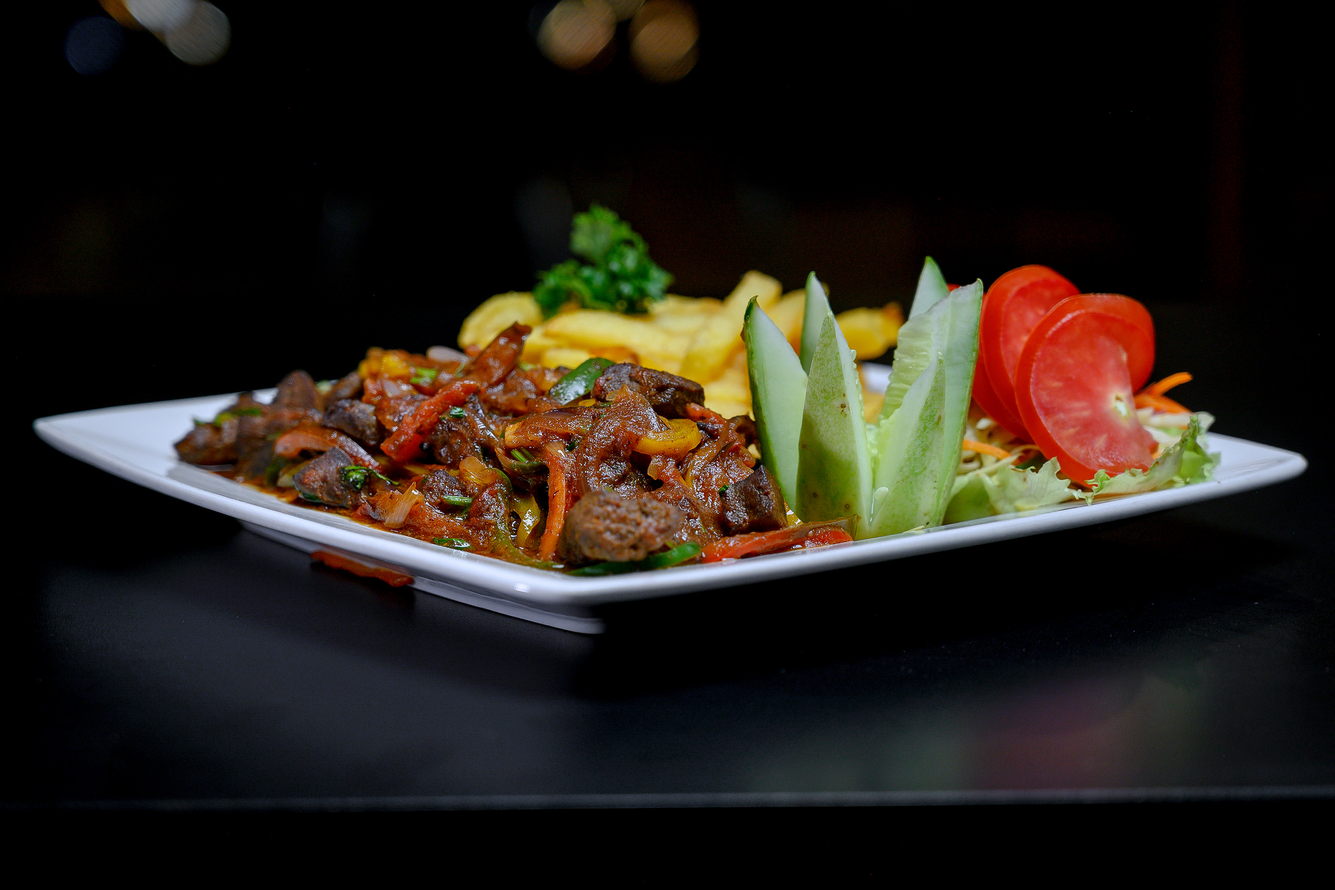
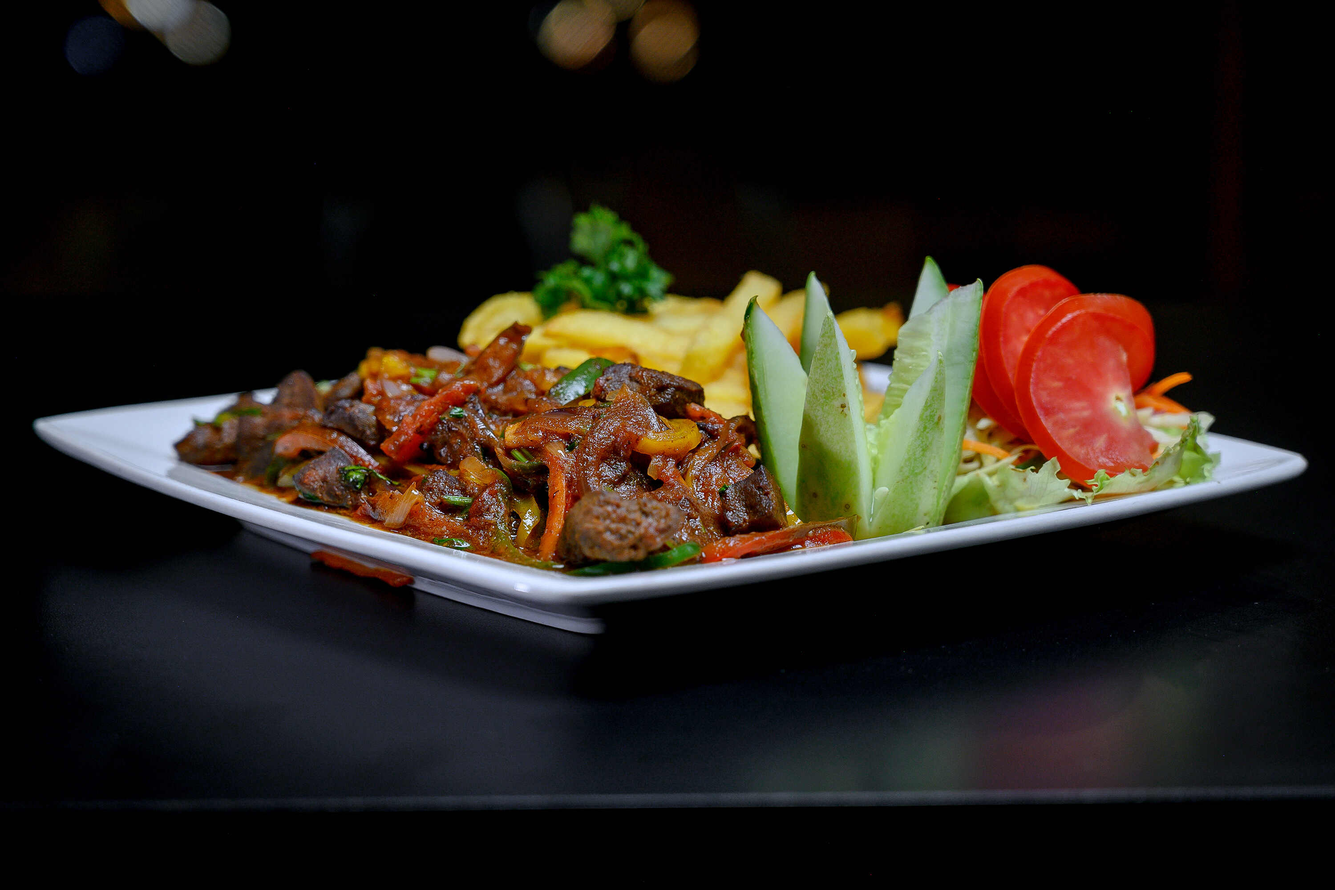
compressed images for faster loading

Changed region(s): [[0.372, 0.434, 0.558, 0.589], [0.31, 0.527, 0.403, 0.62]]

diff --git a/index.html b/index.html
@@ -38,25 +38,25 @@
             <!-- Nav Links -->
             <ul class="nav-menu">
                 <li class="nav-item">
-                    <a href="" class="nav-link underline-animation">menu</a>
+                    <a href="#menu" class="nav-link underline-animation">menu</a>
                 </li>
                 <li class="nav-item">
-                    <a href="" class="nav-link underline-animation">restaurant</a>
+                    <a href="#restaurant" class="nav-link underline-animation">restaurant</a>
                 </li>
                 <li class="nav-item">
-                    <a href="" class="nav-link underline-animation">lounge</a>
+                    <a href="#lounge" class="nav-link underline-animation">lounge</a>
                 </li>
                 <li class="nav-item">
-                    <a href="" class="nav-link underline-animation">entertainment</a>
+                    <a href="#events" class="nav-link underline-animation">entertainment</a>
                 </li>
                 <li class="nav-item">
-                    <a href="" class="nav-link underline-animation">location</a>
+                    <a href="#location" class="nav-link underline-animation">location</a>
                 </li>
                 <li class="nav-item">
-                    <a href="" class="nav-link underline-animation">about us</a>
+                    <a href="#gallery" class="nav-link underline-animation">Gallery</a>
                 </li>
                 <li class="nav-item">
-                    <a href="" class="nav-link underline-animation">contact</a>
+                    <a href="#contact" class="nav-link underline-animation">contact</a>
                 </li>
             </ul>
 
@@ -94,7 +94,7 @@
             <!--                  MENU SECTION                -->
             <!-- ============================================ -->
 
-            <section class="menu sub-section">
+            <section class="menu sub-section" id="menu">
                 <div class="section-description">
                     <h5 class="section-heading">menu</h5>
                     <h3 class="section-sub-heading">Experience culinary elegance at Morsa Restaurant and Lounge</h3> 
@@ -113,12 +113,12 @@
                     </div>
                 </div>
                 <div class="slideshow">
-                    <img src="img/menu/chicken_dishes_compressed.jpg" alt="" srcset="" loading="lazy" id="menu-img">
+                    <img src="img/menu/chicken_dishes_compressed.jpg" alt="" srcset="" id="menu-img">
                     <a href="" class="cta-button">Order Now</a>
                 </div>
             </section>
 
-            <section class="sub-section restaurant">
+            <section class="sub-section restaurant" id="restaurant">
                 <div class="container">
                     <div class="slideshow">
                         <img src="img/restaurant.jpg" alt="" srcset="" loading="lazy">
@@ -134,7 +134,7 @@
                 
             </section>
 
-            <section class="sub-section events">
+            <section class="sub-section events" id="events">
                 <div class="container">
                     <div class="section-description">
                         <h5 class="section-heading">events and promotions</h5>
@@ -151,7 +151,7 @@
                 
             </section>
 
-            <section class="sub-section lounge">
+            <section class="sub-section lounge" id="lounge">
                 <div class="container">
                     <div class="slideshow">
                         <img src="img/pool.jpg" alt="" srcset="" loading="lazy">
@@ -166,7 +166,7 @@
                 <a href="" class="cta-button">Book Now</a>
             </section>
 
-            <section class="gallery">
+            <section class="gallery" id="gallery">
                 <h5 class="section-heading">Our Gallery</h5>
                 <p>Follow us on Instagram <a href="">#morsarestaurant</a></p>
                 <img src="img/gallery/1.jpg" alt="" loading="lazy">
@@ -187,13 +187,13 @@
                 <img src="img/gallery/16.jpg" alt="" loading="lazy">
             </section>
 
-            <section class="location">
+            <section class="location" id="location">
                 <h5 class="section-heading">Our location</h5>
                 <iframe src="https://www.google.com/maps/embed?pb=!1m18!1m12!1m3!1d31918.2238167139!2d32.54596636711432!3d0.2576599379685006!2m3!1f0!2f0!3f0!3m2!1i1024!2i768!4f13.1!3m3!1m2!1s0x177dbd36f63e0cc7%3A0x816ce3fda9a13a1b!2sMorsa%20Restaurant%20%26%20Lounge!5e0!3m2!1sen!2sug!4v1686513495038!5m2!1sen!2sug" width="600" height="450" style="border:0;" allowfullscreen="" loading="lazy" referrerpolicy="no-referrer-when-downgrade"></iframe>
             </section>
 
             
-            <section class="sub-section customer-reviews">
+            <section class="sub-section customer-reviews" id="reviews">
                 <div class="section-description">
                     <h5 class="section-heading">Client Reviews</h5>
                     <p>This is what our clients have to say</p>
@@ -207,7 +207,7 @@
                             <i class="fas fa-star"></i>
                             <i class="fas fa-star"></i>
                             <i class="fas fa-star"></i>
-                            <i class="far fa-star"></i>
+                            <i class="fas fa-star"></i>
                         </div>
                         </div>
                         <p class="comment">
@@ -223,7 +223,7 @@
                             <i class="fas fa-star"></i>
                             <i class="fas fa-star"></i>
                             <i class="fas fa-star"></i>
-                            <i class="far fa-star"></i>
+                            <i class="fas fa-star"></i>
                         </div>
                         </div>
                         <p class="comment">
@@ -238,7 +238,7 @@
                             <i class="fas fa-star"></i>
                             <i class="fas fa-star"></i>
                             <i class="fas fa-star"></i>
-                            <i class="far fa-star"></i>
+                            <i class="fas fa-star"></i>
                         </div>
                         </div>
                         <p class="comment">
@@ -253,7 +253,7 @@
                             <i class="fas fa-star"></i>
                             <i class="fas fa-star"></i>
                             <i class="fas fa-star"></i>
-                            <i class="far fa-star"></i>
+                            <i class="fas fa-star"></i>
                         </div>
                         </div>
                         <p class="comment">
@@ -265,25 +265,41 @@
         </main>
     </div>
 
-    <footer>
-        <div class="logo-links">
-            <img src="img/logo.svg" alt="" class="heart-beat-animation nav-branding">
+    <footer id="contact">
+        <div class="container">
+            <div class="contact">
+                <div class="logo-links">
+                    <img src="img/logo.svg" alt="" class="heart-beat-animation nav-branding">
+                </div>
+                <div class="social-media">
+                    <img src="img/social_media/facebook.png" alt="">
+                    <img src="img//social_media/instagram.png" alt="">
+                    <img src="img/social_media/tiktok.png" alt="">
+                </div>
+                <p><a href=""><i class="fas fa-map-marker"></i>  Freedom City</a></p>
+                <p><a href="https://wa.me/256707500126"><i class="fas fa-phone"></i>  +256 707500126</a></p>
+                <p><a href=""><i class="fas fa-envelope"></i>  info@morsarestaurant.com</a></p>
+            </div>
+            <div class="restaurant-working-hours">
+                <h5 class="section-heading">Restaurant working Hours</h5>
+                <p>monday to friday 7am - 6pm</p>
+                <p>saturday         7am - 9pm</p>
+                <p>sunday           7am - 9pm</p>
+            </div>
+            <div class="bar-working-hours">
+                <h5 class="section-heading">Bar working Hours</h5>
+                <p>monday to friday 5pm - 3am</p>
+                <p>saturday         5pm - 1am</p>
+                <p>sunday           5pm - 1am</p>
+            </div>
         </div>
-        <div class="social-media">
-            <img src="img/social_media/facebook.png" alt="">
-            <img src="img//social_media/instagram.png" alt="">
-            <img src="img/social_media/tiktok.png" alt="">
-        </div>
-        <p><a href=""><i class="fas fa-map-marker"></i>  Freedom City</a></p>
-        <p><a href=""><i class="fas fa-phone"></i>  +256 707500126</a></p>
-        <p><a href=""><i class="fas fa-envelope"></i>  info@morsarestaurant.com</a></p>
         <p class="copyright-msg">© 2023 MORSA RESTAURANT & LOUNGE</p>
     </footer>
 
     
     <script src="js/toggle_nav.js"></script>
     <script src="js/change_menu_image.js"></script>
+    <script src="js/scroll_to_section.js"></script>
 </body>
-
 
 </html>

diff --git a/css/subsections.css b/css/subsections.css
@@ -61,6 +61,7 @@ main{
     display: grid;
     grid-template-columns: 1fr 1fr 1fr;
     justify-content: space-between;
+    padding: 0 20px;
 }
 
 .menu-btn{
@@ -87,6 +88,12 @@ main{
     font-weight: bold;
 }
 
+.menu-btn:focus {
+    background-position: left;
+    color: var(--grey);
+    font-weight: bold;
+}
+
 .cta-button{
     text-decoration: none;
     color: var(--orange);
@@ -96,6 +103,12 @@ main{
 }
 
 .cta-button:hover{
+    background-color: var(--orange); 
+    color: var(--grey);
+    font-weight: bold;
+}
+
+.cta-button:focus{
     background-color: var(--orange); 
     color: var(--grey);
     font-weight: bold;
@@ -159,10 +172,26 @@ main{
         display: block;
     }
 
+
+}
+
+@media(max-width: 300px){
+    .menu-nav{
+        grid-template-columns: 1fr 1fr;
+    }
+}
+
+
+@media(min-width: 500px) and (max-width: 540px){
+    
+
     .menu-btn{
         width: 100px;
     }
 
+    .menu-nav{
+        grid-template-columns: 1fr 1fr 1fr;
+    }
 
 }
 
@@ -286,7 +315,12 @@ main{
     width:95%;
     margin: 0 auto;
     margin-top: 50px;
+    margin-bottom: 50px;
     
+  }
+
+  .customer-reviews .section-description p{
+    text-align: center;
   }
   
   .customer-reviews .section-description{
@@ -397,10 +431,23 @@ main{
   
   footer{
     background-color: #181717;
-    margin-top: 50px; 
+    max-width: 100%;
+  }
+
+  footer .container{
+    display: flex;
+    justify-content: space-between;
+    max-width: 100%;
+
+  }
+
+  .contact{
     display: flex;
     flex-direction: column;
-    align-items: center;
+  }
+
+  .contact .nav-branding{
+    margin: -100px 0;
   }
 
   .logo-links{
@@ -415,17 +462,51 @@ main{
     padding: 15px;
   }
 
-  footer a{
+  footer p a{
     text-decoration: none;
     color: white;
+    transition: .5s ease;
   }
 
   footer i{
     color: #eb8a0c;
   }
 
+  footer p a:hover{
+    color: var(--orange);
+  }
+
+
+
 .copyright-msg{
   text-align: center;
   font-size: 10px;
-  margin-bottom: 50px;
+  display: block;
+}
+
+
+.restaurant-working-hours, .bar-working-hours{
+    margin: auto 0;
+}
+
+.restaurant-working-hours p, .bar-working-hours p{
+    text-transform: uppercase;
+    padding-left: 0;
+    margin: 0 0;
+}
+
+
+@media(max-width: 700px){
+    footer .container{
+        flex-direction: column-reverse;
+        align-items: center;
+    }
+
+    footer .container .restaurant-working-hours, .bar-working-hours{
+        display: none;
+    }
+
+    .contact{
+        align-items: center;
+    }
 }

diff --git a/js/scroll_to_section.js b/js/scroll_to_section.js
@@ -1,0 +1,22 @@
+
+
+document.addEventListener('DOMContentLoaded', function() {
+    var navLinks = document.querySelectorAll('nav ul li a');
+  
+    for (var i = 0; i < navLinks.length; i++) {
+      navLinks[i].addEventListener('click', scrollToSection);
+    }
+  
+    function scrollToSection(e) {
+      
+      hamburger.classList.toggle('active');
+      navMenu.classList.toggle('active');
+      e.preventDefault();
+  
+      var targetId = this.getAttribute('href');
+      var targetElement = document.querySelector(targetId);
+  
+      // Scroll to the target element smoothly
+      targetElement.scrollIntoView({ behavior: 'smooth' });
+    }
+  });

diff --git a/js/toggle_nav.js b/js/toggle_nav.js
@@ -5,3 +5,4 @@ hamburger.addEventListener('click', function() {
   hamburger.classList.toggle('active');
   navMenu.classList.toggle('active');
 });
+
